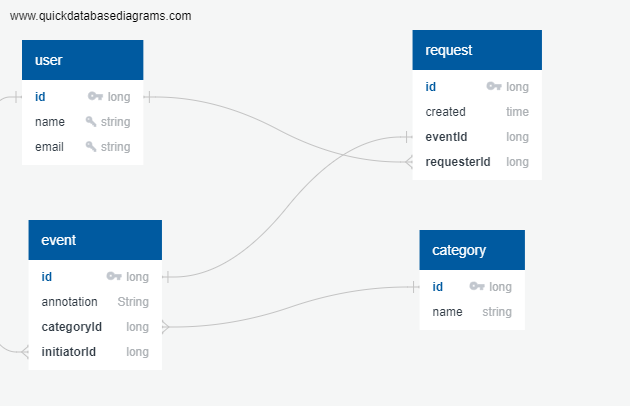
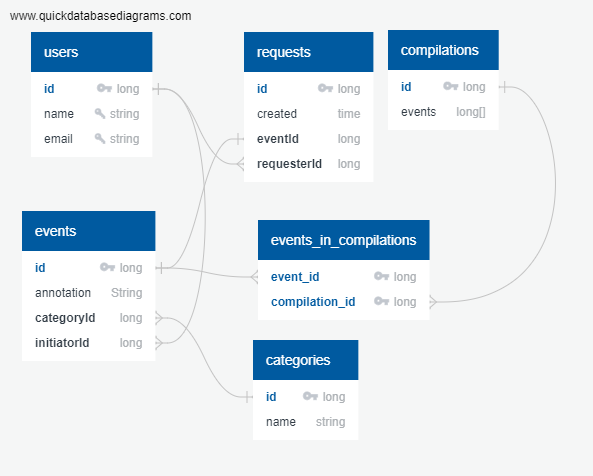
feat: Add modules & EventController

diff --git a/server/src/main/java/ru/practicum/request/dto/RequestDto.java b/server/src/main/java/ru/practicum/request/dto/RequestDto.java
@@ -2,8 +2,31 @@ package ru.practicum.request.dto;
 
 import lombok.AllArgsConstructor;
 import lombok.Data;
+import ru.practicum.request.Status;
+
+import java.time.LocalDateTime;
 
 @Data
 @AllArgsConstructor
 public class RequestDto {
+    /**
+     * уникальный идентификатор заявки
+     */
+    private Long id;
+    /**
+     * Дата и время создания заявки
+     */
+    private LocalDateTime created;
+    /**
+     * Идентификатор события
+     */
+    private Long event;
+    /**
+     * Идентификатор пользователя, отправившего заявку
+     */
+    private Long requester;
+    /**
+     * Статус заявки
+     */
+    private Status status;
 }

diff --git a/server/src/main/java/ru/practicum/request/dto/RequestMapper.java b/server/src/main/java/ru/practicum/request/dto/RequestMapper.java
@@ -1,0 +1,19 @@
+package ru.practicum.request.dto;
+
+import lombok.RequiredArgsConstructor;
+import org.springframework.stereotype.Component;
+import ru.practicum.request.Request;
+
+@Component
+@RequiredArgsConstructor
+public class RequestMapper {
+    public static RequestDto toRequestDto(Request request) {
+        return new RequestDto(
+                request.getId(),
+                request.getCreated(),
+                request.getEvent(),
+                request.getRequester(),
+                request.getStatus()
+        );
+    }
+}

diff --git a/server/src/main/java/ru/practicum/event/controller/EventPrivateController.java b/server/src/main/java/ru/practicum/event/controller/EventPrivateController.java
@@ -55,4 +55,11 @@ public class EventPrivateController {
         return eventService.updateEventByInitiator(userId,
                 eventService.getEventById(eventId).get().setState(State.CANCELED);
     }
+
+    @GetMapping("/{eventId}/requests")
+    @ResponseStatus(OK)
+    public Optional<EventFullDto> findEventById(@PathVariable Long userId,
+                                                @PathVariable Long eventId) {
+        return eventService.getEventById(eventId);
+    }
 }

diff --git a/server/src/main/java/ru/practicum/user/controller/UserController.java b/server/src/main/java/ru/practicum/user/controller/UserController.java
@@ -1,8 +1,10 @@
-package ru.practicum.user;
+package ru.practicum.user.controller;
 
 import lombok.RequiredArgsConstructor;
 import lombok.extern.slf4j.Slf4j;
 import org.springframework.web.bind.annotation.*;
+import ru.practicum.user.User;
+import ru.practicum.user.UserService;
 
 import java.util.Collection;
 

diff --git a/server/src/main/java/ru/practicum/request/repository/RequestRepository.java b/server/src/main/java/ru/practicum/request/repository/RequestRepository.java
@@ -1,0 +1,7 @@
+package ru.practicum.request.repository;
+
+import org.springframework.data.jpa.repository.JpaRepository;
+import ru.practicum.request.Request;
+
+public interface RequestRepository extends JpaRepository<Request, Long> {
+}

diff --git a/server/src/main/java/ru/practicum/compilation/Compilation.java b/server/src/main/java/ru/practicum/compilation/Compilation.java
@@ -1,0 +1,4 @@
+package ru.practicum.compilation;
+
+public class Compilation {
+}
